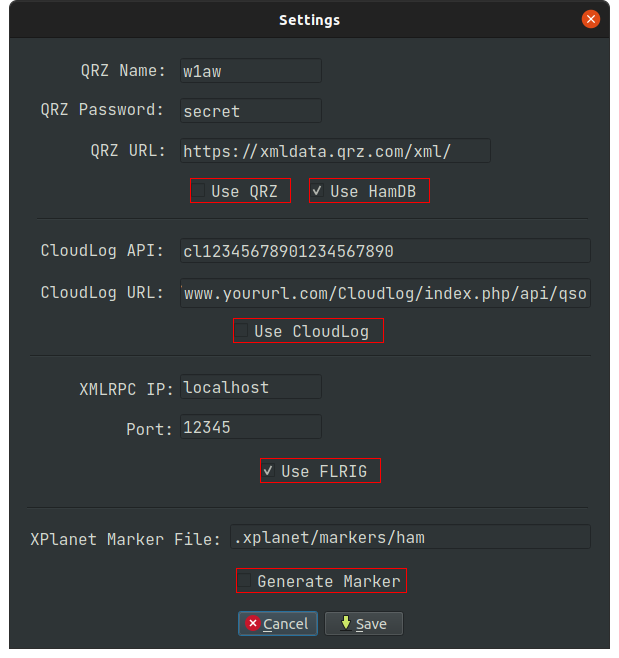
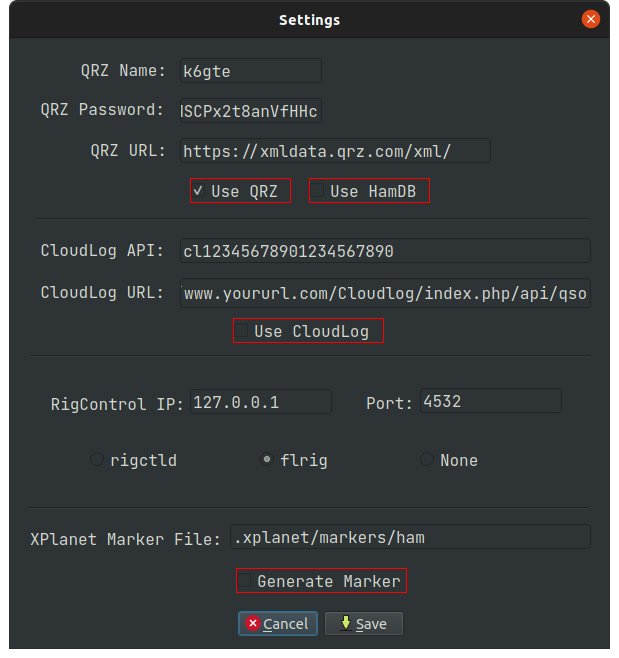
docs:Updated pic and readme.md for rigctl.

diff --git a/README.md b/README.md
@@ -50,6 +50,7 @@ WFD only has a generic digital mode designator 'DI', which gets exported to the 
 
 `.L` To generate a log.
 
+* Someone, You know who by now, for some, I'm sure, completely valid reason, does not use flrig, and thought it would be nice to have a choice between it, and rigctld. I agree. So I put it back. But given the lack of testing, I'm leaving it in the development branch until after WFD.
 
 * Corrected the TAB focus order of the edit dialog.
  
@@ -98,7 +99,7 @@ You will find the binary in the newly created dist directory.
 ## What to do first
 On first run, there will be a dialog box asking you for your call class and section. if you need to change this later, the entry fields can be found at the bottom of the screen.
 
-![Snapshot focused on bottom of window](https://github.com/mbridak/WinterFieldDayLogger/raw/main/pics/yourstuff.png)
+![Snapshot focused on bottom of window](pics/yourstuff.png)
 
 ## Logging
 
@@ -111,7 +112,7 @@ Okay you've made a contact. Enter the call in the call field. As you type it in,
 
 If you run flrig on a computer connected to the radio, it can be polled for band/mode updates automatically. Click the gear icon at the bottom of the screen to set the IP and port for flrig. There is a radio icon at the bottom of the logging window to indicate polling status.
 
-![Snapshot of settings dialog](https://github.com/mbridak/WinterFieldDayLogger/raw/main/pics/loggerSettingsDialog.png)
+![Snapshot of settings dialog](pics/loggerSettingsDialog.png)
 
 ## Cloudlog, QRZ, HamDB useage
 
@@ -123,7 +124,7 @@ The QRZ/HamDB lookup is only used to get the Op name and gridsquare for the call
 
 If you use QRZ/HamdDB lookups you can also generate an [XPlanet](http://xplanet.sourceforge.net/) markerfile which will show little pips on the map as contacts are logged.
 
-![Snapshot of xplanet window](https://github.com/mbridak/WinterFieldDayLogger/raw/main/pics/xplanet.png)
+![Snapshot of xplanet window](pics/xplanet.png)
 
 The above launched with an example command:
 
@@ -135,25 +136,25 @@ xplanet -body earth -window -longitude -117 -latitude 38 -config Default -projec
 
 Double click a contact in the upper left of the screen to edit or delete it.
 
-![Snapshot of edit qso dialog](https://github.com/mbridak/WinterFieldDayLogger/raw/main/pics/editqso.png)
+![Snapshot of edit qso dialog](pics/editqso.png)
 
 ## Super Check Partial
 
 If you type more than two characters in the callsign field the program will filter the input through a "Super Check Partial" routine and show you possible matches to known contesting call signs. Is this useful? Doubt it.
 
-![Snapshot of main screen focused on super check partial output](https://github.com/mbridak/WinterFieldDayLogger/raw/main/pics/scp.png)
+![Snapshot of main screen focused on super check partial output](pics/scp.png)
 
 ## Section partial check
 
 As you type the section abbreviation you are presented with a list of all possible sections that start with what you have typed.
 
-![Snapshot of main screen focused on section check partial output](https://github.com/mbridak/WinterFieldDayLogger/raw/main/pics/sectioncheck.png)
+![Snapshot of main screen focused on section check partial output](pics/sectioncheck.png)
 
 ## DUP checking
 
 Once you type a complete callsign and press TAB or SPACE to advance to the next field. The callsign is checked against previous callsigns in your log. It will list any prior contact made showing the band and mode of the contact. If the band and mode are the same as the one you are currently using, the listing will be highlighted, the screen will flash, a bell will sound to alert you that this is a DUP. At this point you and the other OP can argue back and forth about who's wrong. In the end you'll put your big boy pants on and make a decision if you'll enter the call or not.
 
-![Snapshot of main screen focused on dup checking output](https://github.com/mbridak/WinterFieldDayLogger/raw/main/pics/dupe.png)
+![Snapshot of main screen focused on dup checking output](pics/dupe.png)
 
 ## Autofill
 
@@ -180,7 +181,7 @@ These are pulled straight from the onscreen input fields. Combined with normal t
 
 After the big weekend, once you've swept up all the broken beer bottles and wiped the BBQ sauce off your chin, go ahead and click the Generate Logs button.
 
-![Snapshot of main screen focused on generate logs button](https://github.com/mbridak/WinterFieldDayLogger/raw/main/pics/genlog.png)
+![Snapshot of main screen focused on generate logs button](pics/genlog.png)
 
 This will generate the following:
 
